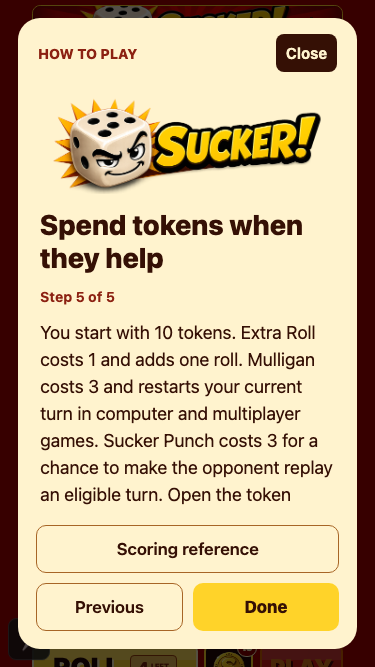
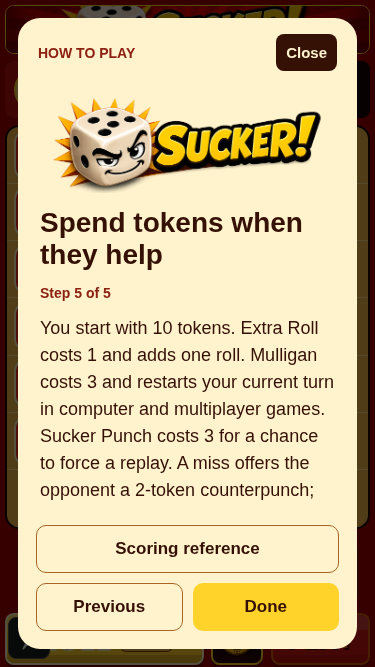
Refresh the guide evidence for current counterpunch rules

diff --git a/docs/review-evidence/learn-to-play/README.md b/docs/review-evidence/learn-to-play/README.md
@@ -4,7 +4,7 @@ The existing game menu had only Stats and no way to learn the controls or catego
 
 Added an optional five-step How to Play dialog covering rolls, held dice, score previews, committing a category, and tokens. A scoring reference explains every category and the section/extra-Sucker bonuses. It is available beside computer play before sign-in, in the signed-in lobby, and from the game menu. Closing help returns to the same game and restores focus. The guide reuses the existing lobby artwork ([after](after.png)).
 
-The guide does not alter gameplay or force an introduction before playing. Detailed punch eligibility remains a separate pending rules decision; the copy refers to an eligible turn without resolving that conflict.
+The guide does not alter gameplay or force an introduction before playing. Its token step follows the current counterpunch rules.
 
 Four guide browser cases pass, covering all steps, reference access, keyboard focus, held-dice/roll preservation, and 375 × 667 / 430 × 932 controls. The existing two-player UI flow and all three phone menu/layout cases also pass. Inspected and updated only five intentional help-entry snapshots; discarded unrelated platform-rendering differences generated during that run. Both typechecks, 88 app tests, 11 Edge tests, and lint pass. Native VoiceOver and physical-device text settings remain unverified.
 
@@ -15,4 +15,4 @@ The first asset choice introduced an otherwise unused large image. Reproduced th
 Review found two misleading explanations. The token step advertised Mulligan without its current computer-only UI limitation ([before](tokens-before.png), [after](tokens-after.png)). The bonus reference said “another five-of-a-kind,” implying an earlier successful Sucker even though the rule accepts a zero or scratched Sucker box ([before](bonus-before.png), [after](bonus-after.png)). Corrected both explanations without changing gameplay. All four guide browser cases, typecheck, lint, and whitespace checks pass after the copy corrections, including the smaller phone layout.
 # Current multiplayer integration
 
-After integrating the current app, the token step still described Mulligan as computer-only. `integration-before.png` reproduces that stale instruction; `integration-after.png` shows the corrected current-turn explanation for both game modes. All four guide browser cases and both typechecks pass after integration.
+After integrating the current app, the token step still described Mulligan as computer-only. `integration-before.png` reproduces that stale instruction. `integration-after.png` was refreshed after the September 15 rebase and shows the current Mulligan and counterpunch explanation at 375 × 667; scroll the guide to read the remaining text on this smaller viewport. `counterpunch-after.png` shows the entire token explanation at 430 × 932. Four guide cases and the two-player browser flow pass after the rebase, including 393 × 852 interaction checks, and both typechecks pass. The games-list baseline also includes the current Jab behavior.
